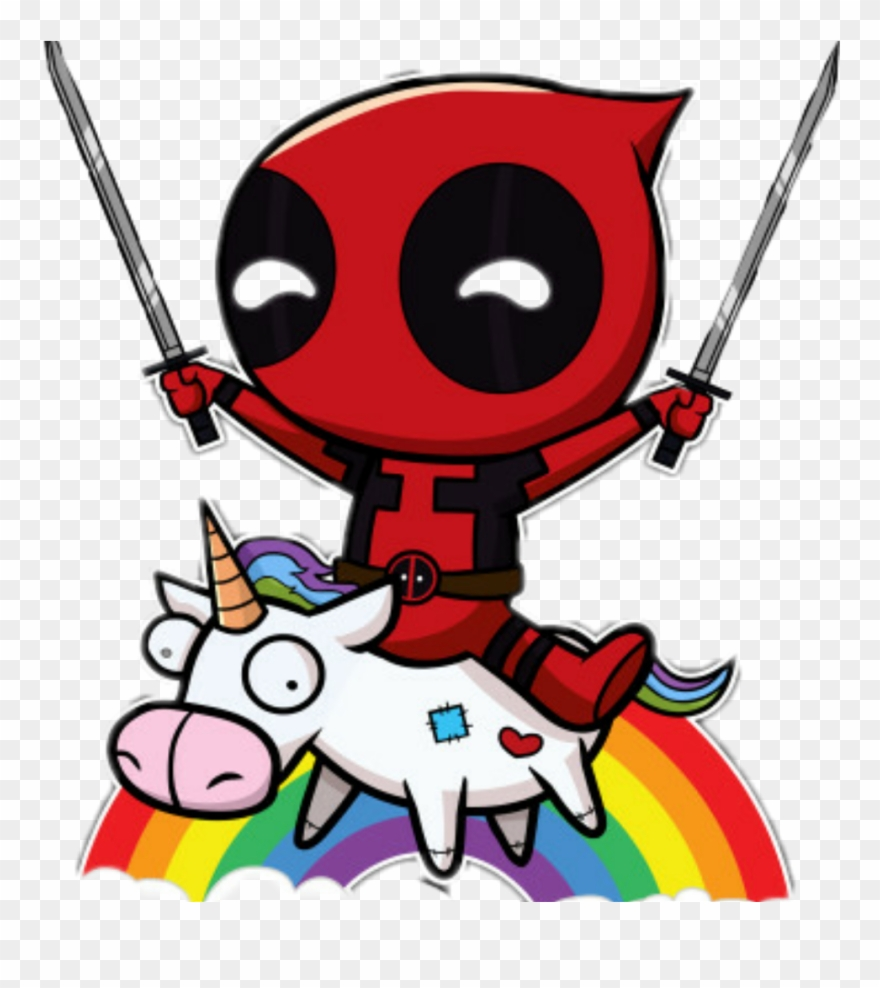
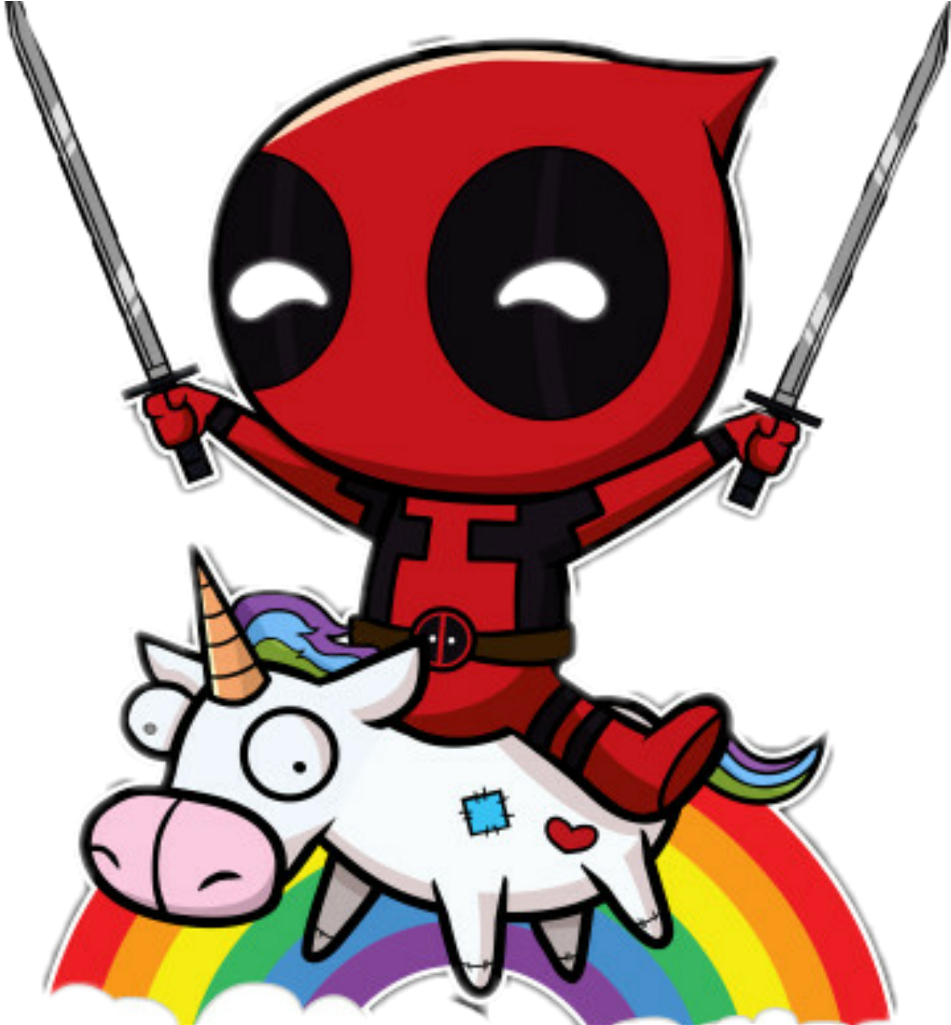
Added reward for completion ;)

diff --git a/1.main-course/4.back-end/1.php/1.setup/README.md b/1.main-course/4.back-end/1.php/1.setup/README.md
@@ -58,7 +58,7 @@ The [PHPMyAdmin guide](https://www.digitalocean.com/community/tutorials/how-to-i
 
 You reached the end ! Awesome !
 You deserve a something, here you go
-<img alt="Deadpool unicorn!" src="./resources/unicorn.png" style="max-width:300px"/> 
+<img alt="Deadpool unicorn!" src="./resources/unicorn.png" style="width:300px;"/> 
 
 
 
